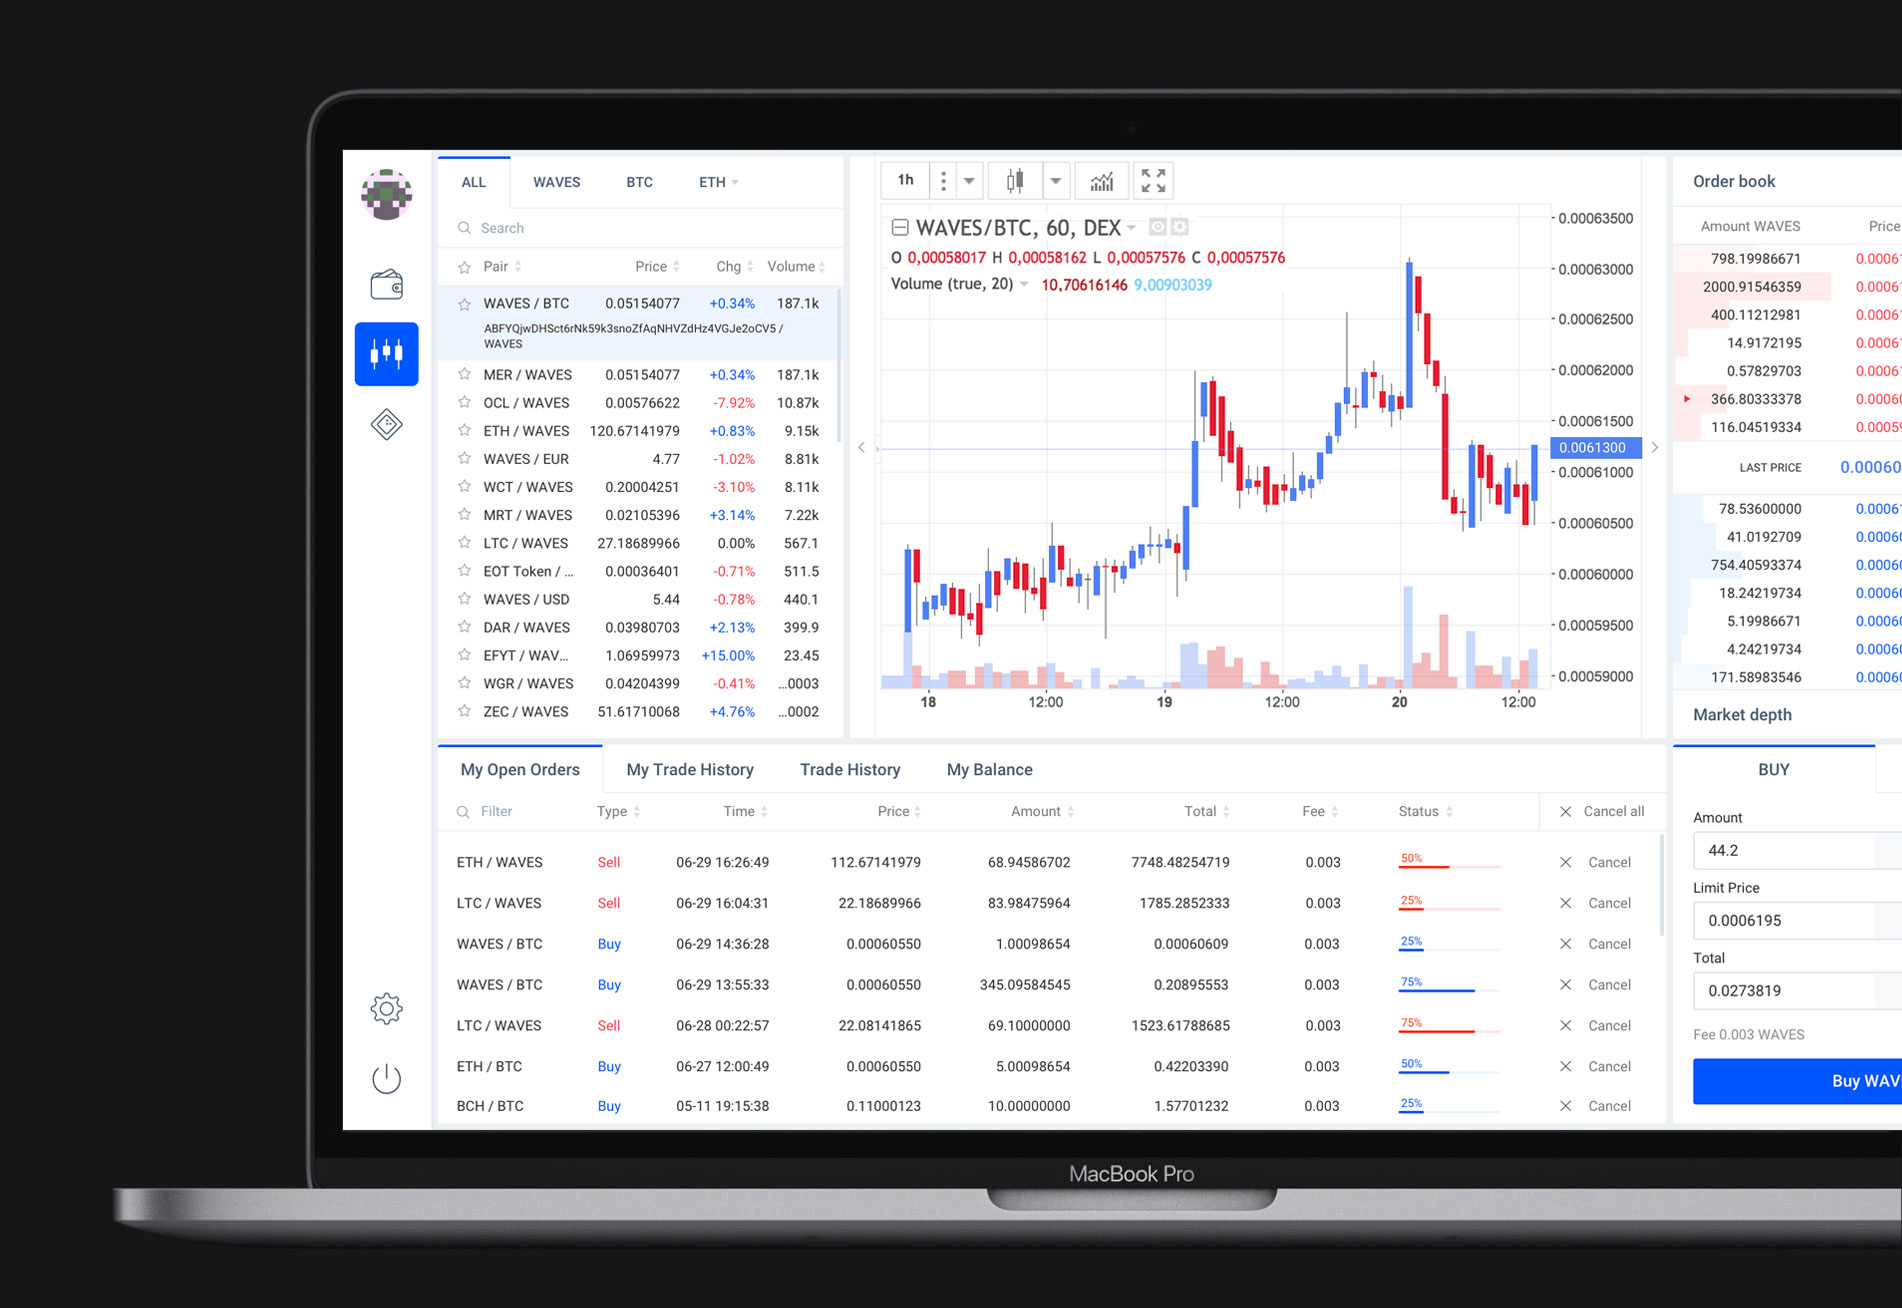
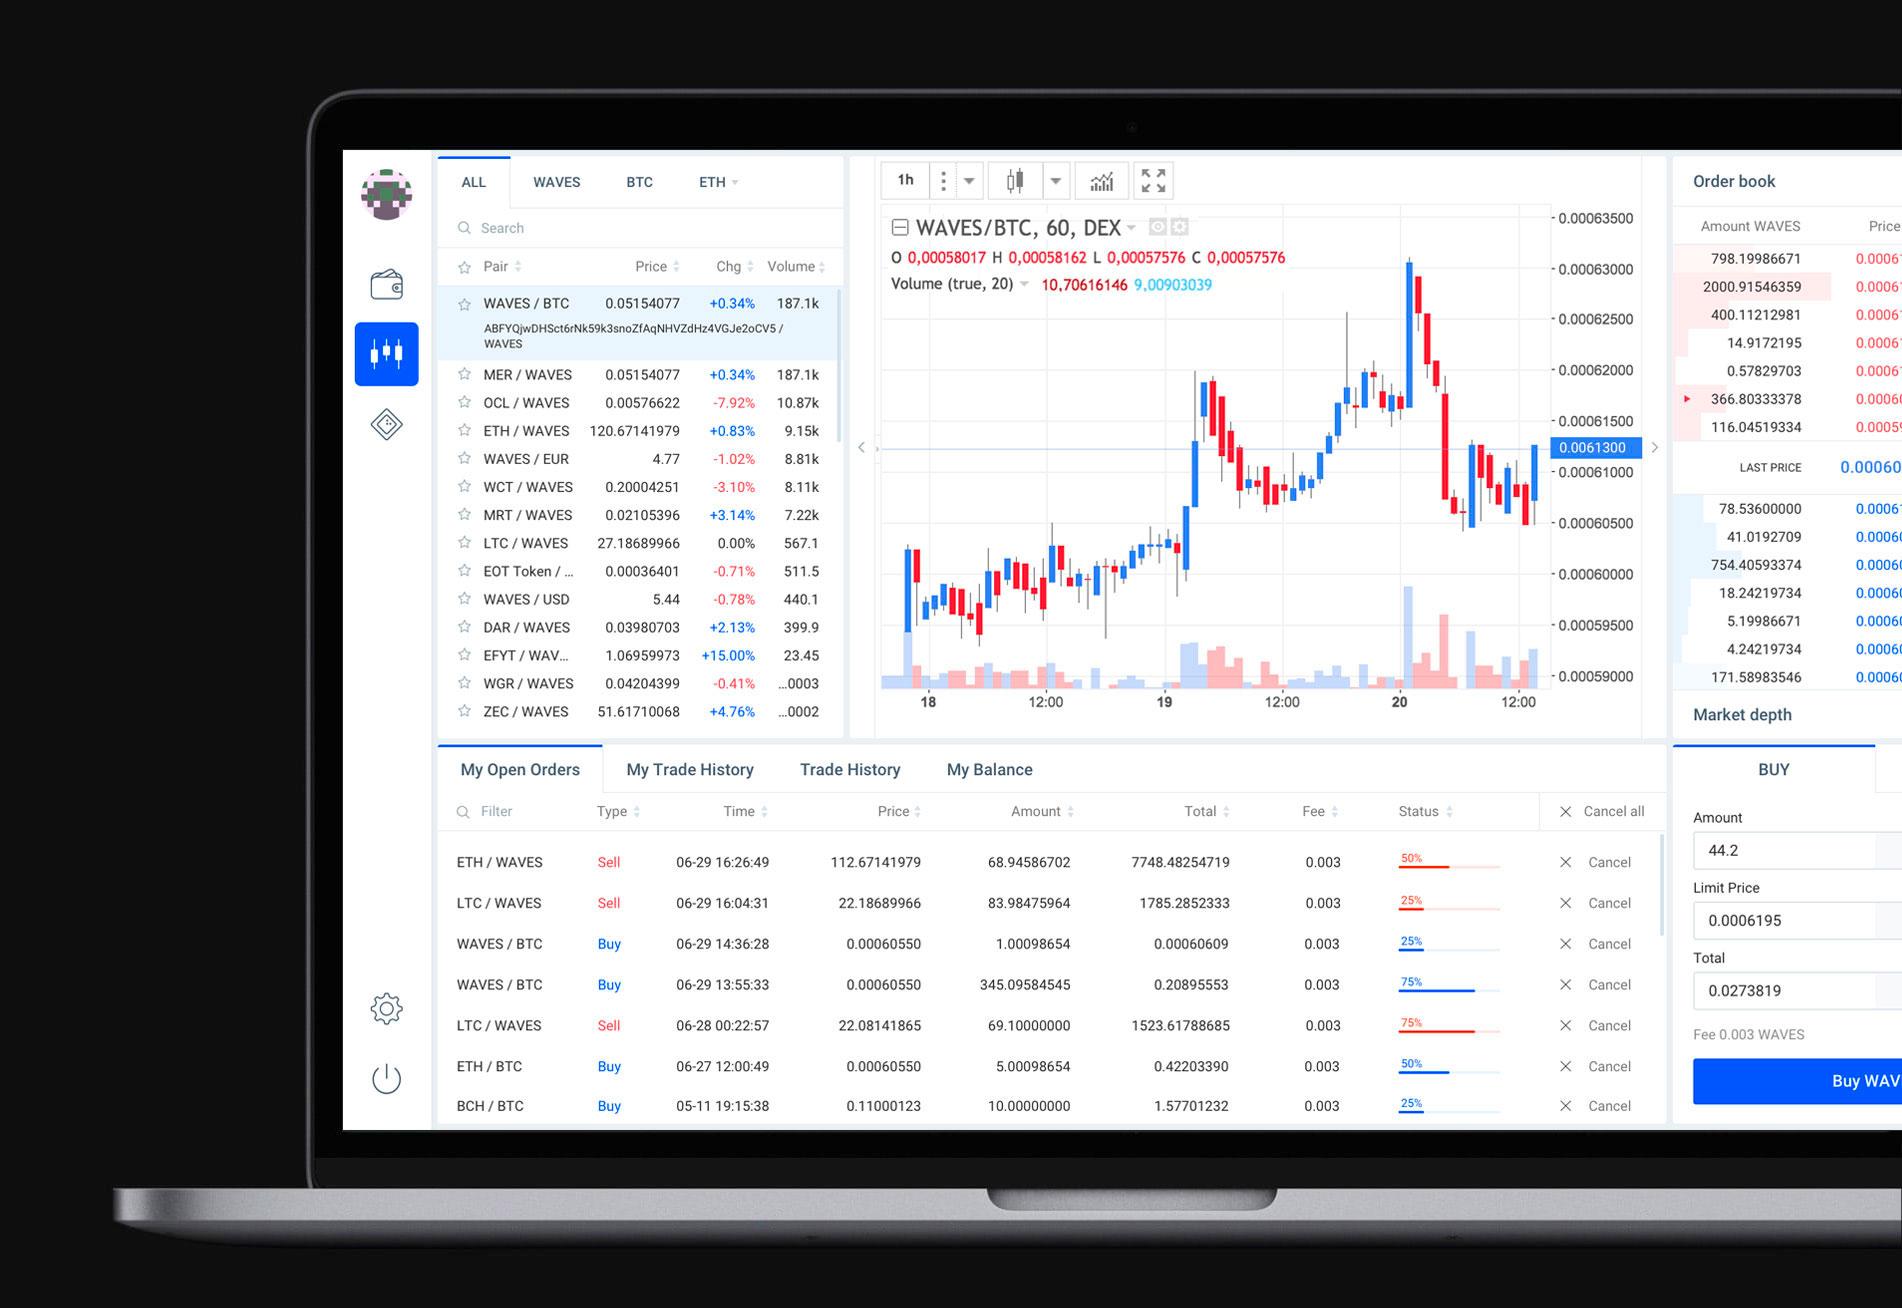
New dex images without brand, added labels with ru translation

diff --git a/src/common/containers/Products/Dex/lib/GetClient/index.jsx b/src/common/containers/Products/Dex/lib/GetClient/index.jsx
@@ -26,7 +26,7 @@ const GetClient = ({ classes, onClientDownload, onNewClientClick }) => (
           >
             <FormattedMessage
               id="products.dex.getClient.title"
-              defaultMessage="Use client for quick access to the DEX"
+              defaultMessage="Use Waves Client for fast access to the DEX."
             />
           </Typography>
         </Col>
